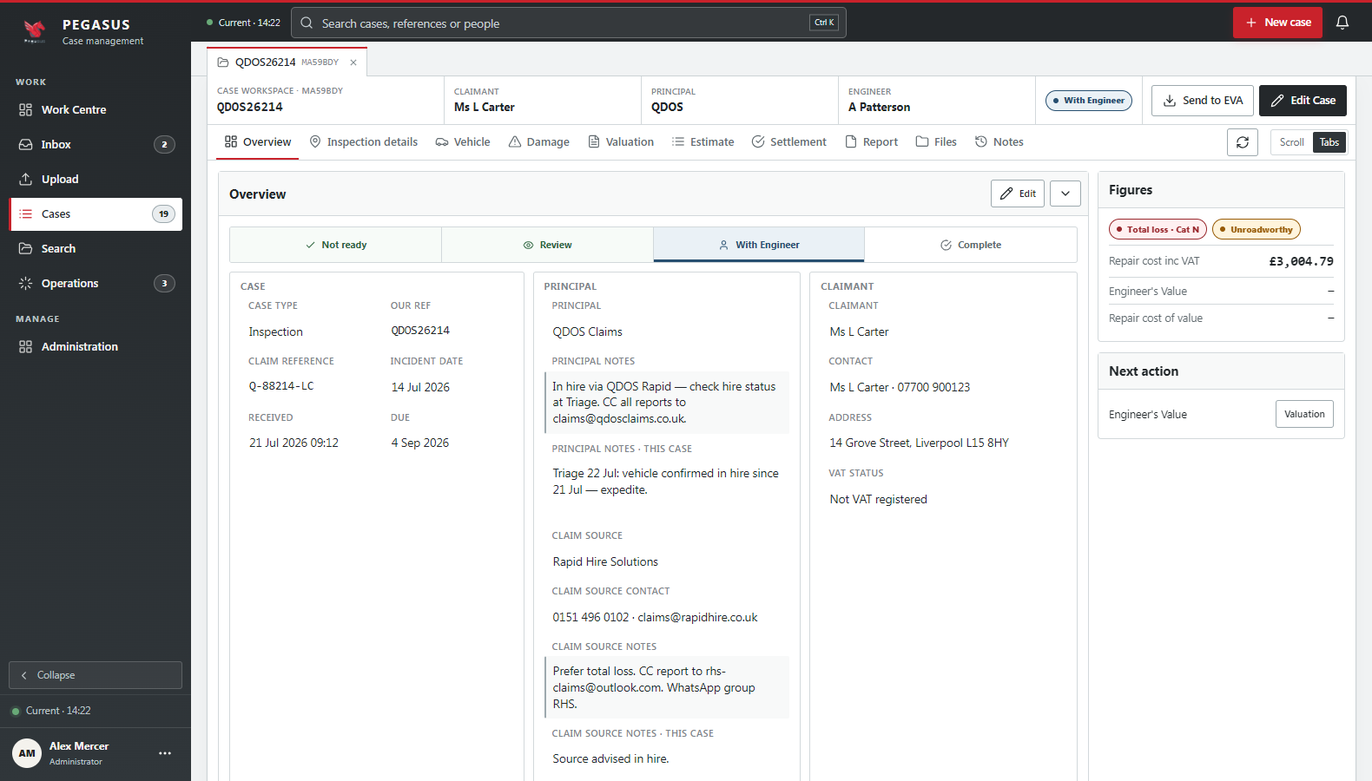
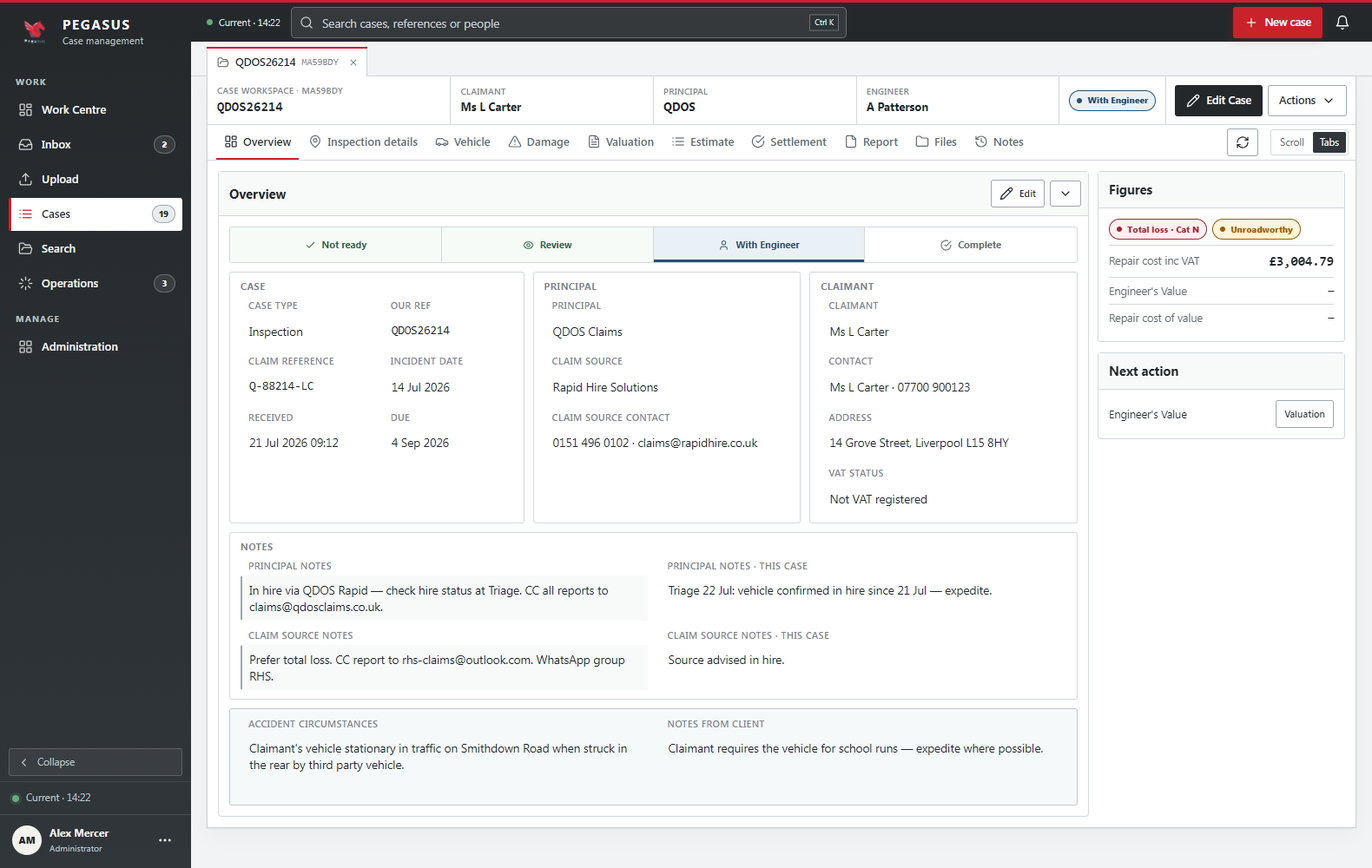
Stage 2 approved: Overview notes band, sign-off settlements, ADR-0049 and ADR-0050
The Case record's four notes fields move into a Notes band under the Overview
columns; the Case tasks proposal and Take over on a colleague's lease are
dropped; Scroll is the default layout in every state; Create audit is offered
once a report has been generated and derives ap. only from Total loss. Every
open question in the page folders is closed at the operator's answer. Two ADRs
record the platform decisions taken with Stage 2: Web returns to an App Service
Web App by code deployment, and reports render with QuestPDF.

Case self-check: {"fail":[],"okCount":404}.

Claude-Session: https://claude.ai/code/session_01A9zX5CPhioVLcftTManjPn

diff --git a/v26_planning/current/pegasus_case_workspace_v26.html b/v26_planning/current/pegasus_case_workspace_v26.html
@@ -515,6 +515,10 @@ body:not(.is-editing) .edit-only,.case-section.is-locked .edit-only{display:none
 .next-row.ai-next{border-bottom:1px solid var(--line);padding-bottom:8px;margin-bottom:8px}
 /* Actions menu: Send to EVA and Create audit */
 #menuCase{display:contents}
+.notes-band{margin-top:10px}
+.notes-band .fg.g2{grid-template-columns:1fr 1fr;column-gap:14px}
+.notes-band .fc .fv.multi{min-height:36px}
+@media(max-width:1180px){.notes-band .fg.g2{grid-template-columns:1fr}}
 /* ---- Damage ---- */
 .damage-workbench{display:grid;grid-template-columns:minmax(220px,300px) minmax(260px,1fr);gap:14px;align-items:start}
 .damage-workbench:has(#carView[data-variant="side"]){grid-template-columns:minmax(280px,360px) minmax(260px,1fr)}
@@ -852,7 +856,7 @@ body.is-editing .case-section:not(.is-locked) .cluster.calc-only{display:flex}
             <ol class="stepper" id="stepper"></ol>
             <div class="sub blockers" id="blockers" hidden><h3>Outstanding requirements <span class="status status--amber" id="blockCount">1 outstanding</span></h3><ul class="blocker-list" id="blockerList"></ul></div>
             <div class="sub" id="lifecycle" hidden><h3>Lifecycle actions</h3><div class="button-row" id="lifecycleBtns"></div><div class="fc ro" id="sentRow" hidden><span class="lbl">Report sent</span><div class="fv" id="sentRead"></div></div></div>
-            <div class="sub" id="tasksPanel" hidden><h3>Case tasks <span class="rt">Proposal</span></h3><div id="taskList"></div><div class="button-row edit-only" style="margin-top:6px"><button type="button" class="btn btn--small" onclick="openDlg('taskCreate')"><svg class="icon"><use href="#icon-plus"/></svg><span>Create task</span></button></div></div>
+
             <div class="overview-grid">
               <div class="sub"><h3>Case</h3>
                 <div class="fg g2">
@@ -867,12 +871,8 @@ body.is-editing .case-section:not(.is-locked) .cluster.calc-only{display:flex}
               <div class="sub"><h3>Principal</h3>
                 <div class="fg">
                   <div class="fc ro idn"><span class="lbl">Principal<svg class="icon lk"><use href="#icon-lock"/></svg></span><div class="fv">QDOS Claims</div></div>
-                  <div class="fc ro idn rec-notes" id="pNotesRec"><span class="lbl">Principal notes<svg class="icon lk"><use href="#icon-lock"/></svg></span><div class="fv multi">In hire via QDOS Rapid — check hire status at Triage. CC all reports to claims@qdosclaims.co.uk.</div></div>
-                  <div class="fc"><label for="f-pnotes">Principal notes · this Case</label><div class="fv multi">Triage 22 Jul: vehicle confirmed in hire since 21 Jul — expedite.</div><textarea id="f-pnotes" class="fi">Triage 22 Jul: vehicle confirmed in hire since 21 Jul — expedite.</textarea></div>
                   <div class="fc"><label for="f-src">Claim source</label><div class="fv">Rapid Hire Solutions</div><select id="f-src" class="fi" onchange="srcNotes()"><option>Rapid Hire Solutions</option><option>Direct</option><option>Other…</option></select></div>
                   <div class="fc ro"><span class="lbl">Claim source contact</span><div class="fv">0151 496 0102 · claims@rapidhire.co.uk</div></div>
-                  <div class="fc ro idn rec-notes" id="sNotesRec"><span class="lbl">Claim source notes<svg class="icon lk"><use href="#icon-lock"/></svg></span><div class="fv multi">Prefer total loss. CC report to rhs-claims@outlook.com. WhatsApp group RHS.</div></div>
-                  <div class="fc"><label for="f-snotes">Claim source notes · this Case</label><div class="fv multi">Source advised in hire.</div><textarea id="f-snotes" class="fi">Source advised in hire.</textarea></div>
                 </div>
               </div>
               <div class="sub"><h3>Claimant</h3>
@@ -882,6 +882,14 @@ body.is-editing .case-section:not(.is-locked) .cluster.calc-only{display:flex}
                   <div class="fc"><label for="f-clmaddr">Address</label><div class="fv">14 Grove Street, Liverpool L15 8HY</div><input id="f-clmaddr" class="fi" value="14 Grove Street, Liverpool L15 8HY"></div>
                   <div class="fc"><label for="f-clmvat">VAT status</label><div class="fv">Not VAT registered</div><select id="f-clmvat" class="fi" onchange="regateVat()"><option>Not VAT registered</option><option>VAT registered</option></select></div>
                 </div>
+              </div>
+            </div>
+            <div class="sub notes-band" id="recNotes"><h3>Notes</h3>
+              <div class="fg g2">
+                <div class="fc ro idn rec-notes" id="pNotesRec"><span class="lbl">Principal notes<svg class="icon lk"><use href="#icon-lock"/></svg></span><div class="fv multi">In hire via QDOS Rapid — check hire status at Triage. CC all reports to claims@qdosclaims.co.uk.</div></div>
+                <div class="fc"><label for="f-pnotes">Principal notes · this Case</label><div class="fv multi">Triage 22 Jul: vehicle confirmed in hire since 21 Jul — expedite.</div><textarea id="f-pnotes" class="fi">Triage 22 Jul: vehicle confirmed in hire since 21 Jul — expedite.</textarea></div>
+                <div class="fc ro idn rec-notes" id="sNotesRec"><span class="lbl">Claim source notes<svg class="icon lk"><use href="#icon-lock"/></svg></span><div class="fv multi">Prefer total loss. CC report to rhs-claims@outlook.com. WhatsApp group RHS.</div></div>
+                <div class="fc"><label for="f-snotes">Claim source notes · this Case</label><div class="fv multi">Source advised in hire.</div><textarea id="f-snotes" class="fi">Source advised in hire.</textarea></div>
               </div>
             </div>
             <div class="accident">
@@ -1233,7 +1241,6 @@ body.is-editing .case-section:not(.is-locked) .cluster.calc-only{display:flex}
   <div class="mrow"><b>EVA</b><button data-eva="none" onclick="setEva('none')">Not sent</button><button data-eva="sent" onclick="setEva('sent')">Sent</button><button data-eva="failed" onclick="setEva('failed')">Refused</button><span class="sep"></span><button data-api="1" onclick="setEvaApi(!R.evaApi)">EVA API enabled</button><span class="sep"></span><button onclick="openDlg('eva')">Open EVA handoff</button></div>
   <div class="mrow"><b>Vehicle lookup</b><button data-lookup="none" onclick="setLookup('none')">Not looked up</button><button data-lookup="pending" onclick="setLookup('pending')">Pending</button><button data-lookup="current" onclick="setLookup('current')">Current</button><button data-lookup="stale" onclick="setLookup('stale')">Stale</button><button data-lookup="notfound" onclick="setLookup('notfound')">Not found</button><button data-lookup="failed" onclick="setLookup('failed')">Failed</button></div>
   <div class="mrow"><b>Image custody</b><button data-custody="confirmed" onclick="setCustody('confirmed')">Confirmed</button><button data-custody="pending" onclick="setCustody('pending')">Still arriving</button><button data-custody="failed" onclick="setCustody('failed')">Storage not ready</button></div>
-  <div class="mrow"><b>Case tasks</b><button data-tasks="1" onclick="setTasks(1)">Proposal on</button><button data-tasks="0" onclick="setTasks(0)">Off</button></div>
   <div class="mrow"><b>Tabs</b><button data-tabs="1" onclick="mockTabs(1)">1 open</button><button data-tabs="4" onclick="mockTabs(4)">4 open</button><button data-tabs="9" onclick="mockTabs(9)">9 open</button></div>
   <div class="mrow"><b>Tab layout</b><button data-o="place:fused" onclick="setTabOpt('place','fused')">Fused strip</button><button data-o="place:band" onclick="setTabOpt('place','band')">Grey band</button><button data-o="place:rail" onclick="setTabOpt('place','rail')">Rail list</button><button data-o="place:crumb" onclick="setTabOpt('place','crumb')">Breadcrumb</button></div>
   <div class="mrow"><b>Tab label</b><button data-o="label:both" onclick="setTabOpt('label','both')">Ref + reg</button><button data-o="label:ref" onclick="setTabOpt('label','ref')">Ref only</button><button data-o="label:reg" onclick="setTabOpt('label','reg')">Reg only</button><span class="sep"></span><button data-o="icons:1" onclick="setTabOpt('icons','1')">Icons</button><button data-o="icons:0" onclick="setTabOpt('icons','0')">No icons</button><span class="sep"></span><button data-o="density:regular" onclick="setTabOpt('density','regular')">Regular</button><button data-o="density:compact" onclick="setTabOpt('density','compact')">Compact</button></div>
@@ -1299,8 +1306,7 @@ function setState(s){STATE=s;document.querySelectorAll('.mock button').forEach(b
     if(s==='colleague'){locked=true;why='E Mawdsley is editing';}
     sec.classList.toggle('is-locked',locked);sec.querySelector('.avail-text')&&(sec.querySelector('.avail-text').textContent=why);
   });
-  if(!LAYOUT_USER)setLayout((s==='engineer'||s==='colleague')?'tabs':'scroll');
-  $('btnImport').hidden=$('section-estimate').classList.contains('is-locked');
+$('btnImport').hidden=$('section-estimate').classList.contains('is-locked');
   renderGlass();updateNext();
 }
 
@@ -1706,7 +1712,7 @@ function setLease(v){mockOn('.mock [data-lease]',v);
 function isTerminal(){return STATE==='complete'||!!R.closed;}
 function canSendToEva(){return !R.archived&&(STATE==='review'||STATE==='engineer'||STATE==='colleague')&&!R.closed;}
 function renderBar(){const ed=EDITING,term=isTerminal();let h='';
-  if(STATE==='colleague')h+=`<span class="presence"><span class="presence-dot"></span>E Mawdsley is editing this Case.</span><button type="button" class="btn" onclick="takeOver()"><svg class="icon"><use href="#icon-pencil"/></svg><span>Take over</span></button>`;
+  if(STATE==='colleague')h+=`<span class="presence"><span class="presence-dot"></span>E Mawdsley is editing this Case.</span>`;
   if(R.lease==='elsewhere'&&!ed&&!RETURN_ON&&STATE!=='colleague')h+=`<span class="presence"><span class="presence-dot"></span>You are editing this Case in another window.</span><button type="button" class="btn" onclick="takeOver()"><svg class="icon"><use href="#icon-pencil"/></svg><span>Take over</span></button>`;
   if(ed||RETURN_ON)h+=`<span class="status status--navy case-edit-badge">Editing</span>`;
   if(R.link==='replacement')h+=`<a class="btn" href="${SHELL_PAGE}#/cases/c3"><span>Replacement case</span></a>`;
@@ -1908,7 +1914,7 @@ function renderNotes(){$('noteForm').hidden=isTerminal()||R.archived;}
 
 /* ---------- Case tasks (Cases/Tasks.cshtml.cs) — proposal, no live Razor surface ---------- */
 const TASKS=[{id:'t1',desc:'Chase claimant for boot-floor images',who:'E Mawdsley',state:'Open'},{id:'t2',desc:'Confirm hire status with QDOS Rapid',who:'',state:'Open'}];
-function renderTasks(){$('tasksPanel').hidden=!R.tasks;if(!R.tasks)return;$('taskList').innerHTML=TASKS.map(t=>`<div class="task-row" data-task="${t.id}"><span>${esc(t.desc)}</span><span class="who">${t.who?esc(t.who):'Unassigned'}</span><span class="status ${t.state==='Open'?'status--blue':t.state==='Completed'?'status--green':'status--amber'}">${t.state}</span><span class="cluster calc-only">${t.state==='Open'?`<button type="button" class="btn btn--small" onclick="openDlg('taskAssign',{id:'${t.id}'})">Assign</button><button type="button" class="btn btn--small" onclick="openDlg('taskComplete',{id:'${t.id}'})">Complete</button><button type="button" class="btn btn--small btn--danger" onclick="openDlg('taskCancel',{id:'${t.id}'})">Cancel</button>`:''}</span></div>`).join('')||'<p class="muted">No tasks</p>';}
+function renderTasks(){if(!$('tasksPanel'))return;$('tasksPanel').hidden=!R.tasks;if(!R.tasks)return;$('taskList').innerHTML=TASKS.map(t=>`<div class="task-row" data-task="${t.id}"><span>${esc(t.desc)}</span><span class="who">${t.who?esc(t.who):'Unassigned'}</span><span class="status ${t.state==='Open'?'status--blue':t.state==='Completed'?'status--green':'status--amber'}">${t.state}</span><span class="cluster calc-only">${t.state==='Open'?`<button type="button" class="btn btn--small" onclick="openDlg('taskAssign',{id:'${t.id}'})">Assign</button><button type="button" class="btn btn--small" onclick="openDlg('taskComplete',{id:'${t.id}'})">Complete</button><button type="button" class="btn btn--small btn--danger" onclick="openDlg('taskCancel',{id:'${t.id}'})">Cancel</button>`:''}</span></div>`).join('')||'<p class="muted">No tasks</p>';}
 function setTasks(on){R.tasks=!!on;document.querySelectorAll('.mock [data-tasks]').forEach(b=>b.classList.toggle('on',(b.dataset.tasks==='1')===R.tasks));renderTasks();}
 function taskById(id){return TASKS.find(t=>t.id===id);}
 function taskCreate(){const d=$('task-desc').value.trim(),who=$('task-who').value,reason=readReason();if(!d){toast('Description is required',true);return;}if(!reason)return;TASKS.push({id:'t'+(TASKS.length+1),desc:d,who,state:'Open'});closeDlg();renderTasks();logNote(`Case task created by ${ME_NAME} — ${d}${who?' · '+who:''} — ${reason}.`);toast('The case task was created.');}
@@ -1969,8 +1975,8 @@ const CASE_REF='QDOS26214';
 R.kind='inspection';R.audit=null;R.asAudit=false;
 function setKind(v){R.kind=v;mockOn('.mock [data-kind]',v);renderKind();renderBar();}
 function renderKind(){const k=$('rbKind');if(!k)return;k.hidden=R.kind==='inspection';k.textContent=KIND_LABEL[R.kind]||'';document.querySelectorAll('.fc .lbl').forEach(l=>{if(l.textContent.trim()==='Case type'){const v=l.parentElement.querySelector('.fv');if(v)v.textContent=KIND_LABEL[R.kind];}});}
-function auditPrefix(){const o=val('f-outcome');return o==='total_loss'?'ap.':o==='repairable'?'a.':null;}
-function canCreateAudit(){return R.kind==='inspection_audit'&&!R.audit&&!R.asAudit&&!R.archived&&R.closed!=='Created in error';}
+function auditPrefix(){const o=val('f-outcome');return o==='total_loss'?'ap.':'a.';}
+function canCreateAudit(){return R.kind==='inspection_audit'&&!R.audit&&!R.asAudit&&!R.archived&&R.closed!=='Created in error'&&['generated','prepared','sent'].includes(R.report);}
 DIALOGS.createAudit=()=>{const p=auditPrefix();const sel=$('f-outcome');const o=sel.options[sel.selectedIndex].text;
   return{title:'Create audit',cls:'dialog--compact',body:`<dl class="audit-facts"><dt>Original case</dt><dd class="mono">${CASE_REF}</dd><dt>Outcome</dt><dd>${esc(o)}</dd>${p?`<dt>Audit reference</dt><dd class="mono">${p}${CASE_REF}</dd>`:''}</dl>${p?'':`<div class="field"><label class="req">Original report outcome</label><div class="cluster audit-verdict"><label><input type="radio" name="audit-verdict" value="a." checked> Repairable <span class="mono">a.${CASE_REF}</span></label><label><input type="radio" name="audit-verdict" value="ap."> Total loss <span class="mono">ap.${CASE_REF}</span></label></div></div>`}`,
   foot:`<button type="button" class="btn btn--primary" onclick="createAuditConfirm()"><svg class="icon"><use href="#icon-plus"/></svg><span>Create audit</span></button>`};};

diff --git a/v26_planning/current/v26-selfcheck.html b/v26_planning/current/v26-selfcheck.html
@@ -143,9 +143,8 @@ f.onload=()=>{
     w.setLease('expiring');check('expiring lease offers Renew',!$('btnRenew').hidden&&$('leaseLine').classList.contains('is-expiring')&&$('leaseLine').textContent.includes('expires in'));
     w.setLease('elsewhere');check('editing elsewhere offers Take over',!d.body.classList.contains('is-editing')&&$('barActions').textContent.includes('Take over')&&$('barActions').textContent.includes('another window'));
     w.takeOver();check('take over resumes editing here',d.body.classList.contains('is-editing'));
-    w.setLease('colleague');check('colleague editing state',g('STATE')==='colleague'&&$('barActions').textContent.includes('E Mawdsley is editing')&&$('barActions').textContent.includes('Take over'));
-    w.takeOver();check('take over from the colleague',g('STATE')==='engineer'&&d.body.classList.contains('is-editing'));
-    check('take over is recorded',$('noteTop').textContent.includes('Edit lease taken over'));
+    w.setLease('colleague');check('colleague editing state offers no Take over',g('STATE')==='colleague'&&$('barActions').textContent.includes('E Mawdsley is editing')&&!$('barActions').textContent.includes('Take over'));
+    w.setState('engineer');w.setLease('mine');
     w.setLease('available');check('lease released ends the session',!d.body.classList.contains('is-editing')&&$('leaseLine').hidden);
     // vehicle lookup
     for(const p of [['none','Not yet looked up'],['pending','Queued'],['current','Current'],['stale','Stale'],['notfound','Not found for MA59BDY'],['failed','Lookup failed · Provider unavailable']]){w.setLookup(p[0]);check('lookup state '+p[0],$('lookupRead').textContent.includes(p[1])&&d.querySelector('.mock [data-lookup="'+p[0]+'"]').classList.contains('on'));}
@@ -281,10 +280,10 @@ f.onload=()=>{
     $('rbEng').textContent='A Patterson';w.localStorage.removeItem('v26.notif');w.renderBellCount();
     // case type and Create audit
     check('case type chip absent for Inspection',$('rbKind').hidden&&!$('barActions').textContent.includes('Create audit'));
-    w.setKind('inspection_audit');check('Inspection + Audit shows the chip and Create audit in the Actions menu',!$('rbKind').hidden&&$('rbKind').textContent==='Inspection + Audit'&&!!d.querySelector('#menuCase .btn[onclick*="createAudit"]')&&!$('menu').hidden);
+    w.setKind('inspection_audit');check('Create audit is absent before a report is generated',!d.querySelector('#menuCase .btn[onclick*="createAudit"]'));w.setReport('generated');check('Inspection + Audit shows the chip and Create audit in the Actions menu',!$('rbKind').hidden&&$('rbKind').textContent==='Inspection + Audit'&&!!d.querySelector('#menuCase .btn[onclick*="createAudit"]')&&!$('menu').hidden);
     check('the record bar holds neither Create audit nor Send to EVA',![...d.querySelectorAll('#barActions a,#barActions button')].some(b=>['Create audit','Send to EVA'].includes(b.textContent.trim())));
     w.openDlg('createAudit');check('create audit derives ap. from Total loss',dlgText().includes('ap.QDOS26214')&&!d.querySelector('input[name=audit-verdict]'));w.closeDlg();
-    $('f-outcome').value='cash_in_lieu';w.openDlg('createAudit');check('an outcome that is neither asks for the verdict',!!d.querySelector('input[name=audit-verdict]'));w.closeDlg();$('f-outcome').value='total_loss';
+    $('f-outcome').value='cash_in_lieu';w.openDlg('createAudit');check('Cash in lieu derives a. without asking',dlgText().includes('a.QDOS26214')&&!d.querySelector('input[name=audit-verdict]'));w.closeDlg();$('f-outcome').value='total_loss';
     w.openDlg('createAudit');w.createAuditConfirm();check('audit case created and linked from the bar',g('R').audit.ref==='ap.QDOS26214'&&$('barActions').textContent.includes('Audit case ap.QDOS26214')&&!d.querySelector('#menuCase .btn[onclick*="createAudit"]'));
     check('audit case joins the working set',w.readOpen().some(t=>t.id==='ca1'&&t.ref==='ap.QDOS26214')&&w.localStorage.getItem('v26.audit')==='ap.QDOS26214');
     w.setKind('audit');check('Audit type shows its chip',$('rbKind').textContent==='Audit'&&!d.querySelector('#menuCase .btn[onclick*="createAudit"]'));
@@ -307,19 +306,12 @@ f.onload=()=>{
     w.recordChase();check('chase refused without recipient, channel and outcome',!!$('chase-recipient'));
     $('chase-recipient').value='Ms L Carter';$('chase-channel').value='Telephone';$('chase-content').value='Boot floor images';$('chase-outcome').value='No answer';w.recordChase();
     check('manual chase recorded',$('dlgHost').innerHTML===''&&$('noteTop').textContent.includes('Manual chase recorded')&&$('noteTop').textContent.includes('No answer'));
-    // ===== case tasks (proposal) =====
-    check('tasks hidden by default',$('tasksPanel').hidden);
-    w.setTasks(1);check('tasks proposal shown',!$('tasksPanel').hidden&&d.querySelectorAll('#taskList .task-row').length===2&&$('tasksPanel').textContent.includes('Proposal'));
-    w.openDlg('taskCreate');$('task-desc').value='Request the V5C';$('task-who').value='A Patterson';reason('Principal asked');w.taskCreate();
-    check('task created',d.querySelectorAll('#taskList .task-row').length===3&&$('taskList').textContent.includes('Request the V5C'));
-    w.openDlg('taskAssign',{id:'t2'});$('task-who').value='E Mawdsley';reason('Owner changed');w.taskAssign('t2');check('task assigned',g('TASKS').find(t=>t.id==='t2').who==='E Mawdsley');
-    w.openDlg('taskComplete',{id:'t1'});reason('Images received');w.taskComplete('t1');check('task completed',g('TASKS')[0].state==='Completed'&&$('taskList').textContent.includes('Completed'));
-    w.openDlg('taskCancel',{id:'t2'});reason('No longer needed');w.taskCancel('t2');check('task cancelled',g('TASKS')[1].state==='Cancelled');
-    w.setTasks(0);check('tasks proposal hidden again',$('tasksPanel').hidden);
+    // ===== case tasks: not built (13 September) =====
+    check('no Case tasks panel',!$('tasksPanel'));
     // ===== query presets =====
     w.setLife('none');w.setReport('none');w.setLease('available');w.setCustody('confirmed');w.setEva('none');
-    w.replicaQuery(new w.URLSearchParams('lease=mine&lookup=stale&custody=pending&report=generated&tasks=1&imgs=1'));
-    check('query preset: lease, lookup, custody, report, tasks, images',d.body.classList.contains('is-editing')&&g('R').lookup==='stale'&&g('R').custody==='pending'&&g('R').report==='generated'&&!$('tasksPanel').hidden&&!$('fImgs').hidden);
+    w.replicaQuery(new w.URLSearchParams('lease=mine&lookup=stale&custody=pending&report=generated&imgs=1'));
+    check('query preset: lease, lookup, custody, report, images',d.body.classList.contains('is-editing')&&g('R').lookup==='stale'&&g('R').custody==='pending'&&g('R').report==='generated'&&!$('fImgs').hidden);
     w.replicaQuery(new w.URLSearchParams('eva=sent&api=1&link=replacement&life=archived'));
     check('query preset: EVA, link and lifecycle',g('R').eva==='sent'&&g('R').evaApi&&g('R').link==='replacement'&&g('R').archived);
     w.setLife('none');w.setLink('none');w.setCustody('confirmed');w.setLookup('current');w.setTasks(0);w.setReport('none');w.setEva('none');

diff --git a/v26_planning/current/v26-notes.md b/v26_planning/current/v26-notes.md
@@ -26,7 +26,7 @@ they exist only so the states can be rendered without a click.
 | All seven valuation presets in read mode | Only applied increases render in read mode; the list is complete on Edit | `17` |
 | Explanatory copy in Next action, drop zone, Files, Notes, Report | Next action is one label and one link; hints removed; Report date and commentary read as empty values | `01`, `18` |
 | Report and Files heads had four buttons each | One primary (Generate report / Add evidence) plus one More menu | `18` |
-| Scroll was the default everywhere | Tabs is the default in With Engineer; Scroll elsewhere; the switch remembers a manual choice for the session | `01`, `02` |
+| Scroll was the default everywhere | Tabs offered as an alternative; the switch remembers a manual choice for the session (13 September: Scroll stays the default in every state) | `01`, `02` |
 | Aside hidden below 1361px | Below 1441px the Figures and Next action cards fold into a two-up strip above the sections | `20` |
 | Ribbon height varied with content | Ribbon 56px, section row 40px; sticky block is measured, not assumed | all |
 | Notices could not be dismissed | Every notice and the stale bar carry a dismiss × | `09`, `18` |
@@ -310,7 +310,7 @@ Everything in `v25-notes.md` A–F still stands. New:
 - **G. One Glass's slot.** Live renders Launch in the head and Resume in the
   session panel at the same time. v26 shows one slot that changes label.
   Confirm, or keep both as today.
-- **H. Tabs by default in With Engineer.** Confirm the default, or keep Scroll.
+- **H. Tabs by default in With Engineer.** *Rejected 13 September: Scroll is the default everywhere; the switch stays.*
 - **I. Decisions strip.** It moves five Settlement fields, keeps them there and
   shows the proposal column only from a real reviewed proposal. Confirm the
   position (top of Settlement) or ask for its own section.
@@ -325,14 +325,14 @@ Everything in `v25-notes.md` A–F still stands. New:
 - **N. Two files.** The shell and the Case record are separate files here; in
   Stage 2 they are one application. Nothing to decide unless a page is
   missing from the table above.
-- **O. Damage clicker.** Pick one of Plan, Elevations or Dial for Stage 2
-  (see § Damage clicker). Only one ships; the strip switch is mockup-only.
+- **O. Damage clicker.** *Decided 13 September: Plan ships.* The strip switch stays mockup-only for comparison.
 - **P. Working set.** Open records only, fused into the record, six then a
   menu, persisted per browser. Every variable is on the strip; pick the
   combination for Stage 2 (see the table under § Working set).
-- **R. Proposals inside the replica.** Take over on a colleague's lease, the
-  Case tasks panel, and the working-set strip have no live counterpart.
-  Confirm each, or drop it before Stage 2.
+- **R. Proposals inside the replica.** *Decided 13 September: Take over on a
+  colleague's lease is dropped (a person's own second window keeps Take over);
+  the Case tasks panel is dropped; the working-set strip is confirmed at its
+  defaults.* Every other item in A–R stands as mocked.
 - **Q. Crop as a stored rectangle.** The viewer's crop is a region kept on
   the image record, applied wherever the image is shown, with the original
   retained. Confirm this over writing a derived file.
@@ -375,11 +375,11 @@ menu, the state glyphs, and that closing a tab persists.
 ## Create audit (13 September)
 
 - Case type (Inspection, Audit, Inspection + Audit) on the mock strip and as a ribbon chip; `?kind=`.
-- On an Inspection + Audit Case the Actions menu offers **Create audit** (with Send to EVA; neither sits in the record bar, and the menu shows outside an edit session when either is available): a new duplicate Case with `a.`/`ap.{Case/PO}` derived from the Settlement outcome (asks when the outcome is neither). The bars link the two; the Audit Case joins the working set and the shell's lists (`#/cases/ca1`, opened as `?audit=1`). Planning: `pages/cases/case-record/dialogs/create-audit/`. Shots `61`–`64`.
+- On an Inspection + Audit Case the Actions menu offers **Create audit** (with Send to EVA; neither sits in the record bar, and the menu shows outside an edit session when either is available): a new duplicate Case with `a.`/`ap.{Case/PO}` derived from the Settlement outcome (Total loss → `ap.`, every other outcome → `a.`; offered once a report has been generated). The bars link the two; the Audit Case joins the working set and the shell's lists (`#/cases/ca1`, opened as `?audit=1`). Planning: `pages/cases/case-record/dialogs/create-audit/`. Shots `61`–`64`.
 
 ## Record notes (13 September, from v24)
 
-- Overview › Principal: **Principal notes** and **Claim source notes** from the records (read-only, locked, absent when the record has none; the source notes follow the Claim source select) beside **… · this Case** editable notes. Admin: **Notes on every Case** on Principal settings and on a Claim source contact. Planning: `pages/administration/contacts/`. Shots `65`–`68`.
+- Overview: **Principal notes** and **Claim source notes** from the records (read-only, locked, absent when the record has none; the source notes follow the Claim source select) beside **… · this Case** editable notes, in a **Notes band** under the three columns (13 September: moved out of the Principal column, which had grown to twice the height of its neighbours). Admin: **Notes on every Case** on Principal settings and on a Claim source contact. Planning: `pages/administration/contacts/`. Shots `65`–`68`.
 
 ## Valuation and the last placeholders (13 September)
 
@@ -402,4 +402,8 @@ Every decision in `../pages/*/how-it-should-work.md` that had been held back is 
 
 **How it was built.** Three parallel lanes (`wc`, `intake`, `inbox`) each wrote only their own lane files, spliced by the shell build after the existing overrides. The shell self-check lost the checks for the removed received-file page and the Unread scope and gained each lane's checks. 13 September: Case record `{"fail":[],"okCount":410}`, shell `{"fail":[],"okCount":416}`.
 
-**Left for the next pass.** The removed received-file page's code is unreachable but still in the build inputs. Dismiss on a message with an open Unidentified item is allowed until that question is decided.
+**Left for the next pass.** The removed received-file page's code is unreachable but still in the build inputs.
+
+## Stage 2 approval (13 September, evening)
+
+The operator approved Stage 2 with these settlements: Scroll default everywhere (H); no Take over on a colleague's lease and no Case tasks panel (R); Plan clicker (O); the Overview Notes band; Create audit after a report is generated, never asking for the outcome; the Glass's, Brego and Super CAP valuation buttons inert until a provider exists, AI market research inline through the existing job, a re-run replacing the card; Dismiss always allowed; the remaining open questions closed at their proposals (7-day New cases window, Operations open to all roles, no User "changed hands" cause, no e-mail notification, notes on Principal and Claim source only). The Case self-check now reports `{"fail":[],"okCount":403}`. Stage 2 also moves the report renderer to QuestPDF and Web to an App Service Web App (ADR-0049, ADR-0050).

diff --git a/v26_planning/pages/cases/case-record/dialogs/create-audit/how-it-should-work.md b/v26_planning/pages/cases/case-record/dialogs/create-audit/how-it-should-work.md
@@ -4,9 +4,9 @@ Decided with the operator on 13 September 2026.
 
 ## The action
 
-- An **Inspection + Audit** Case offers **Create audit** in the Actions menu (decided 13 September: the record bar keeps only Edit, Save and Cancel; Create audit and Send to EVA are menu items). It is absent on Inspection and Audit Cases, once the Audit exists, and on a Case recorded Created in error or archived.
+- An **Inspection + Audit** Case offers **Create audit** in the Actions menu (decided 13 September: the record bar keeps only Edit, Save and Cancel; Create audit and Send to EVA are menu items) once a report has been generated on it (sent is not required). It is absent before that, on Inspection and Audit Cases, once the Audit exists, and on a Case recorded Created in error or archived.
 - Create audit creates a **new Case**: a duplicate of the original with the same Principal, claimant and parties, vehicle, incident, inspection details, Figures, Files and estimate. It is a Case in its own right, of type Audit, and starts in Review.
-- Its reference is derived from the Inspection's recorded outcome: **Repairable → `a.{Case/PO}`**, **Total loss → `ap.{Case/PO}`**. When the outcome is neither (Cash in lieu, Contract repair), the dialog asks the person to state Repairable or Total loss before creating.
+- Its reference is derived from the Inspection's recorded outcome: **Total loss → `ap.{Case/PO}`**; **Repairable, Cash in lieu and Contract repair → `a.{Case/PO}`** (the last two are repairable-basis outcomes, so the dialog never asks; decided 13 September).
 - The two Cases link both ways: the original's bar shows **Audit case ap.QDOS26214**, the Audit's bar shows **Original case QDOS26214**. Neither identity changes and the original keeps its own lifecycle.
 - The original's Notes record it: "Audit case ap.QDOS26214 created by A Mercer from QDOS26214 — total loss."
 - The Audit Case joins the person's working set (a tab) and the Cases list like any new Case. On the Work Centre it is a new Case with the Manual arrival chip (Work Centre D8).
@@ -14,7 +14,7 @@ Decided with the operator on 13 September 2026.
 
 ## The dialog
 
-Compact. Facts: Original case, Outcome, Audit reference. When the outcome is neither Repairable nor Total loss, a radio pair replaces the Audit reference row: Repairable `a.…` / Total loss `ap.…`. One primary, **Create audit**. No reason is required; the action is its own record.
+Compact. Facts: Original case, Outcome, Audit reference. One primary, **Create audit**. No reason is required; the action is its own record.
 
 ## Where this lands
 
@@ -30,8 +30,8 @@ Compact. Facts: Original case, Outcome, Audit reference. When the outcome is nei
 - CONTEXT.md Inspection + Audit: "One Case in which…" becomes an Inspection Case and a linked Audit Case.
 - FRD-11: the Audit report is produced on the Audit Case.
 
-## Open
+## Decided 13 September
 
-- Whether the Audit Case inherits the original's engineer or starts unassigned (the mockup keeps the engineer).
-- Whether Cash in lieu and Contract repair should always derive `a.` rather than asking.
-- Whether Create audit is offered before the Inspection's report is sent (the mockup offers it at any time).
+- The Audit Case inherits the original's engineer.
+- Cash in lieu and Contract repair derive `a.`; the dialog never asks.
+- Create audit is offered once a report has been generated; sending it is not required.

diff --git a/v26_planning/pages/cases/case-record/how-it-should-work.md b/v26_planning/pages/cases/case-record/how-it-should-work.md
@@ -13,7 +13,8 @@ Decisions that land on the Case record from other pages' planning. The Case reco
 | Work Centre D9 | Market research files attach to Files as evidence, stored in Box like any other evidence, with the tag Market research; no review step and no use as a value | Files |
 | Work Centre D10 | assignment, edits by someone else, received e-mail and queries on this Case raise the engineer's notification | header, Notes, Files |
 | Operator, 13 Sep | Create audit on an Inspection + Audit Case creates the linked Audit Case `a.`/`ap.{Case/PO}` as a duplicate; the bars link the two; Case type shows as a ribbon chip | [`dialogs/create-audit/how-it-should-work.md`](dialogs/create-audit/how-it-should-work.md) |
-| Operator, 13 Sep (v24 notes) | Overview › Principal shows the Principal record's Notes on every Case and the Claim source record's, read-only and locked, absent when empty; beside each an editable notes field for this Case | Overview › Principal column; [`../../administration/contacts/how-it-should-work.md`](../../administration/contacts/how-it-should-work.md) |
+| Operator, 13 Sep (v24 notes) | Overview shows the Principal record's Notes on every Case and the Claim source record's, read-only and locked, absent when empty; beside each an editable notes field for this Case. They sit in a Notes band under the three columns (record notes left, this-Case notes right) so the Principal column stays level with Case and Claimant | Overview › Notes band; [`../../administration/contacts/how-it-should-work.md`](../../administration/contacts/how-it-should-work.md) |
+| Operator, 13 Sep (Stage 2 approval) | Scroll is the default layout in every state; the Scroll/Tabs switch stays. No Take over on a colleague's lease (a person's own second window keeps it). The Case tasks panel is not built. The Plan damage clicker ships | section row; record bar; Damage |
 | Operator, 13 Sep | Valuation: a Valuation month (month and year) and one button per source that runs the valuation; Add valuation stays for typed figures | [`panels/valuation/how-it-should-work.md`](panels/valuation/how-it-should-work.md) |
 | Notes audit, 13 Sep | Import, Send to AI, Compare and Preview draft open their dialogs; no placeholder actions remain on the Case record | [`panels/estimate/how-it-should-work.md`](panels/estimate/how-it-should-work.md) |
 | Operator, 13 Sep | Send to EVA and Create audit are items in the Actions menu, not buttons in the record bar; the menu shows outside an edit session whenever either is available, with its editing-only items hidden | Actions menu |

diff --git a/v26_planning/current/discussion-log.md b/v26_planning/current/discussion-log.md
@@ -248,9 +248,10 @@ Self-checks: 371 and 279.
 
 The operator moved the mockups and their documentation into `v26_planning/`, gave every page a folder, and planned the Work Centre, the received-file record, Inbox, Upload, AI jobs and notifications page by page into "how it works" and "how it should work" documents, with decisions propagated into the pages they affect. Building them into the mockup was held ("Just edit the document so far. Hang fire for now."). Later the same day: crop on the viewer stage, Create audit, Principal and Claim source notes, valuation month and one button per source, and the last placeholder dialogs were added on request. Asked what had been held back, the operator said "all of them": the Case record's share was built directly and the shell's in three parallel lanes, integrated and verified (§ The 13 September planning decisions, built in, in `v26-notes.md`).
 
+## 13. 13 September — Stage 2 approved
+
+The operator asked for a plan covering every decision and feature in `v26_planning/`, front end and backend, plus two platform changes: the report renderer moves from Chromium to QuestPDF, and Web returns to an Azure App Service Web App ("we really want to move away from container here if we can"; a read-only dry run showed UK South now validates Linux B1/P0v3/P1v3 plans, so the ADR-0015 quota block has gone). The Overview was judged "a little bad" after the notes came back, so the four notes moved into a Notes band under the columns. The sign-off list was read out in full: Take over on a colleague's lease and Tabs-by-default were refused, the Case tasks panel dropped as unclear, the working-set strip explained and kept, the Plan clicker chosen, and every open question in the page folders closed (recorded in each `how-it-should-work.md`). The plan was approved and Stage 2 began on this branch.
+
 ## Outstanding
 
-Stage 1 is at v26 with every page mocked; it has not yet been given final approval to proceed to Stage 2 (the
-Razor implementation). Sign-off items A–F (`v25-notes.md`) and G–R (`v26-notes.md`)
-are open. This folder is temporary per `docs/index.md`'s carve-out — remove it once
-Stage 2 lands or the design is formally accepted or rejected.
+Stage 2 is in progress. This folder is temporary per `docs/index.md`'s carve-out — it is removed in the final Stage 2 PR.

diff --git a/v26_planning/pages/cases/case-record/panels/valuation/how-it-should-work.md b/v26_planning/pages/cases/case-record/panels/valuation/how-it-should-work.md
@@ -6,9 +6,4 @@ Decided with the operator on 13 September 2026.
 - **One button per source runs the valuation**: Glass's, Brego, Super CAP and AI market research. Pressing one fetches the figures for the Valuation month, shows the source's card as pending ("Looking up · Jun 2026", "Researching · …") and then fills the card with Retail, Trade, the guide month, the mileage and today's date, logs a Notes line, and re-runs the calculation when that source is the basis. A source is fetched again for a different month by changing the month and pressing again.
 - **Add valuation** stays for a figure typed by hand (the live dialog: Source, Guide month, Mileage, Date, Time, Retail, Trade) and for sources with no connection, such as Cazana.
 - Sources that are not connected keep their seam card; a button is absent, not disabled.
-- Where the figure comes from (Glass's valuation service, Brego, Super CAP, the AI market research job) is an integration decision for Stage 2; the section only promises one press per source.
-
-## Open
-
-- Whether a fetched valuation replaces the source's earlier card or is kept beside it as history (the mockup replaces).
-- Whether AI market research should run through the AI job list with a notification when ready (Work Centre D9) rather than inline.
+- Stage 2 (decided 13 September): the Glass's, Brego and Super CAP buttons are present but inert until a provider connection exists; AI market research creates the existing Market research AI job and shows the card as pending until the job completes (inline, no notification and no Work Centre row); a fetched valuation for the same source and month replaces the earlier card.

diff --git a/v26_planning/pages/work-centre/how-it-should-work.md b/v26_planning/pages/work-centre/how-it-should-work.md
@@ -85,8 +85,9 @@ The bell in the utility bar is today a copy of the first ten Needs attention row
 
 Each notification names the Case and the cause and opens the Case at the relevant place. Notifications are per person, marked read when opened, and kept for 30 days. The same events feed the person's Mine view (P2), so the Work Centre and the bell agree. The dialog itself is specified in [`dialogs/notifications/how-it-should-work.md`](dialogs/notifications/how-it-should-work.md).
 
-### Still open
+### Decided 13 September (Stage 2)
 
-- The New cases window: 7 days is the proposal.
-- Operations audience (D1): deferred until the Operations page is planned, see [`../operations/how-it-should-work.md`](../operations/how-it-should-work.md).
-- The exact copy for the relative due text.
+- The New cases window is 7 days.
+- Operations stays open to Engineers and Users (see [`../operations/how-it-should-work.md`](../operations/how-it-should-work.md)).
+- The relative due text is as mocked: "Due Fri", "Due 24 Sep", "2 days overdue".
+- P5 as written: refresh on focus and every five minutes, plus the Refresh button.

diff --git a/v26_planning/pages/inbox/how-it-should-work.md b/v26_planning/pages/inbox/how-it-should-work.md
@@ -6,5 +6,4 @@ Decided with the operator on 13 September 2026. Inbox's own planning beyond thes
 - **No Unread scope.** Read state is not a queue. The scope list is: All incoming, Receiving work, Case updates, Pre-instructions, Unidentified, Sent Items. Unread messages are still shown bold; there is no separate list of them.
 - **Dismiss.** A message row and the message record gain a Dismiss action (an icon on the row, a button on the record). Dismissing removes the message from the incoming list without classifying or linking it. Dismissed messages are reachable under a **Dismissed** scope and can be restored from there. Nothing is deleted: Dismiss is the retained mail moving to a Dismissed logical folder, the same mechanism as "Move to recommended folder", and it is logged.
 
-Open:
-- Whether Dismiss on a message that has an open Unidentified item is allowed, or the item must be closed first.
+Decided 13 September: Dismiss is always allowed, including on a message with an open Unidentified item; the item stays open.

diff --git a/v26_planning/pages/cases/received-file/how-it-should-work.md b/v26_planning/pages/cases/received-file/how-it-should-work.md
@@ -67,4 +67,4 @@ The MCP intake tools keep reading and writing receipt decisions on the record. N
 2. **Intake log audience:** Administrators only.
 3. **Unreadable e-mail attachments:** land in a work list. An item that could not be read becomes an Unidentified item with the reason "Could not be read" (and the file kind), so it ages and is due like any other Unidentified item. The Inbox message badge stays as well. Nothing is invisible.
 4. **Closed Unidentified items:** follow the existing standard. Unidentified items are Open or Resolved, keep their U-reference for ever, are never deleted, and can be reopened (Core already has `ReopenUnidentifiedRequest`, writing a "Resolved to Open" history row). Close with reason is a resolution; the Closed filter lists resolved items indefinitely; Reopen is offered on a closed item.
-5. **Operations audience:** still deferred.
+5. **Operations audience:** stays open to Engineers and Users (decided later the same day).

diff --git a/v26_planning/pages/administration/contacts/how-it-should-work.md b/v26_planning/pages/administration/contacts/how-it-should-work.md
@@ -13,9 +13,9 @@ Decided with the operator on 13 September 2026.
 
 | Page | Entry |
 | --- | --- |
-| Case record | Overview › Principal column: Principal notes (record, locked), Principal notes · this Case, Claim source notes (record, locked, follows the chosen source), Claim source notes · this Case |
+| Case record | Overview › Notes band under the three columns: Principal notes (record, locked), Principal notes · this Case, Claim source notes (record, locked, follows the chosen source), Claim source notes · this Case |
 | Administration › Contacts | Notes on every Case on the Contact dialog for a Claim source, and on Principal settings |
 
-## Open
+## Decided 13 September
 
-- Whether Repairer, Storage and other contact types also carry notes shown on the Cases that use them. Default: only Principal and Claim source.
+- Only Principal and Claim source carry notes; Repairer, Storage and the other contact types do not.

diff --git a/v26_planning/pages/operations/how-it-should-work.md b/v26_planning/pages/operations/how-it-should-work.md
@@ -6,4 +6,4 @@ Decided with the operator on 13 September 2026 while planning the Work Centre ([
 - Retry stays here, as now. Failed intake processing joins it (Received file D2): failed allocation, failed OCR and re-evaluation with current policy are rows here with their action; the Intake log under Administration › Logs holds the same actions with the history.
 - Where a failure blocks a person's work, the record itself says so in operator words (Vehicle "Lookup failed", Files "Storage not ready"); Operations does not need to be visited to learn that.
 
-Deferred, to be decided when this page is planned: whether Operations stays open to Engineers and Users or becomes Administrator-only.
+Decided 13 September: Operations stays open to Engineers and Users.
